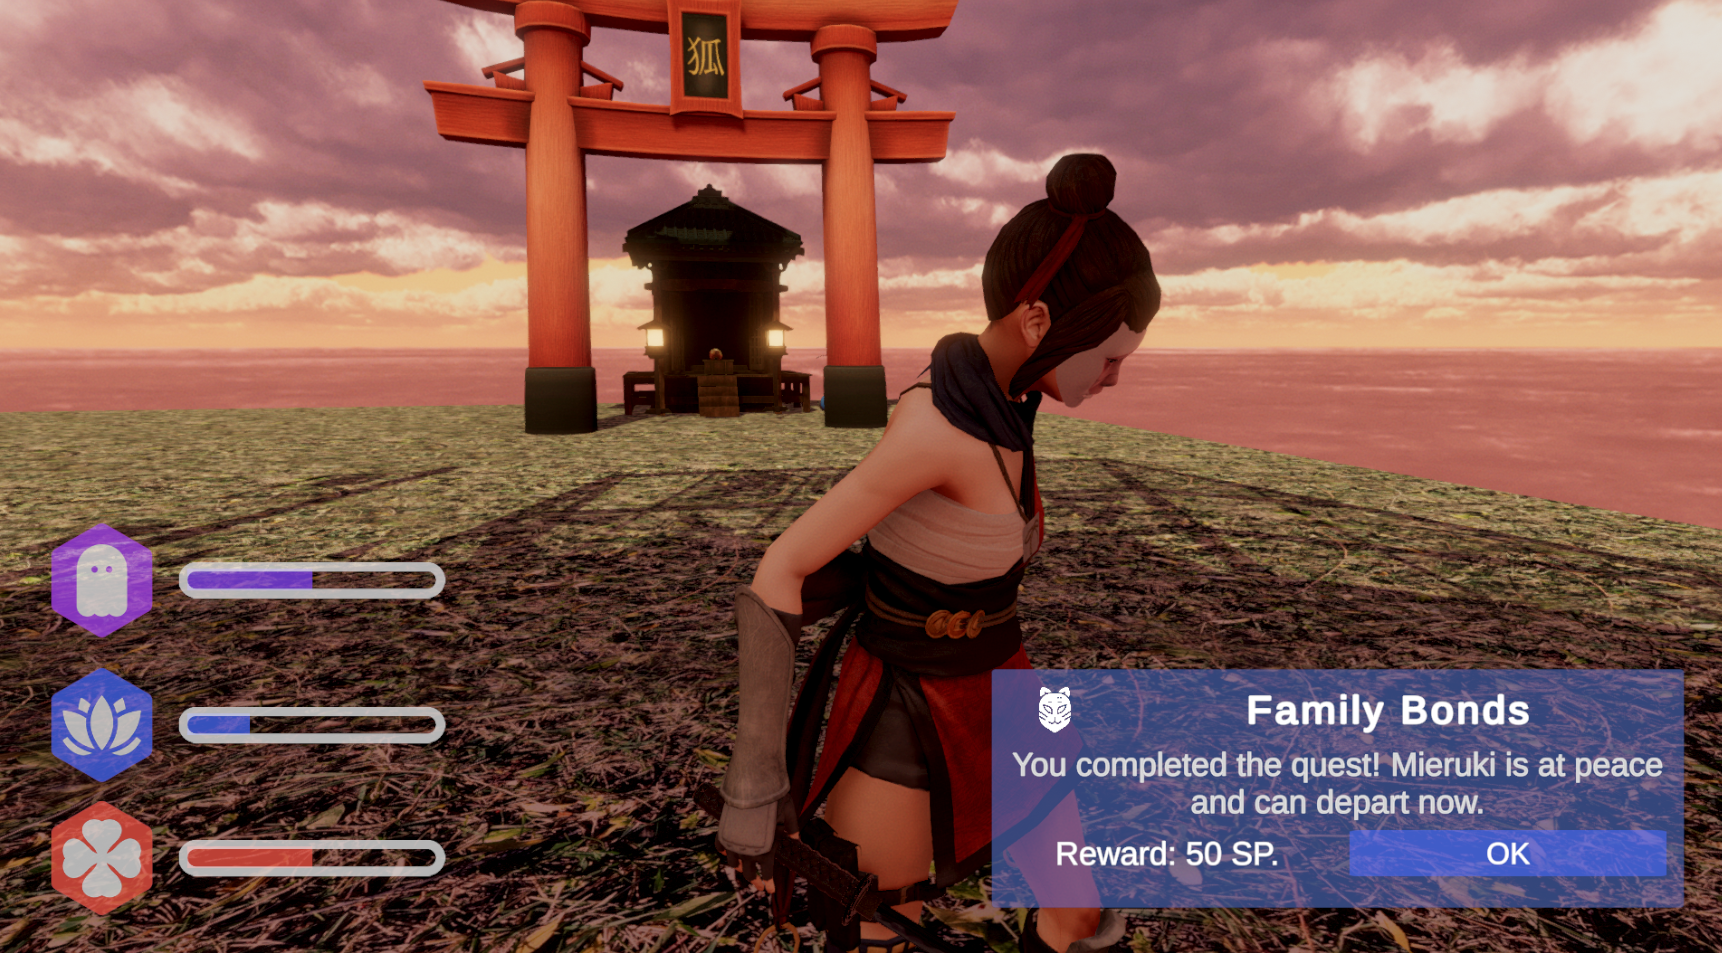
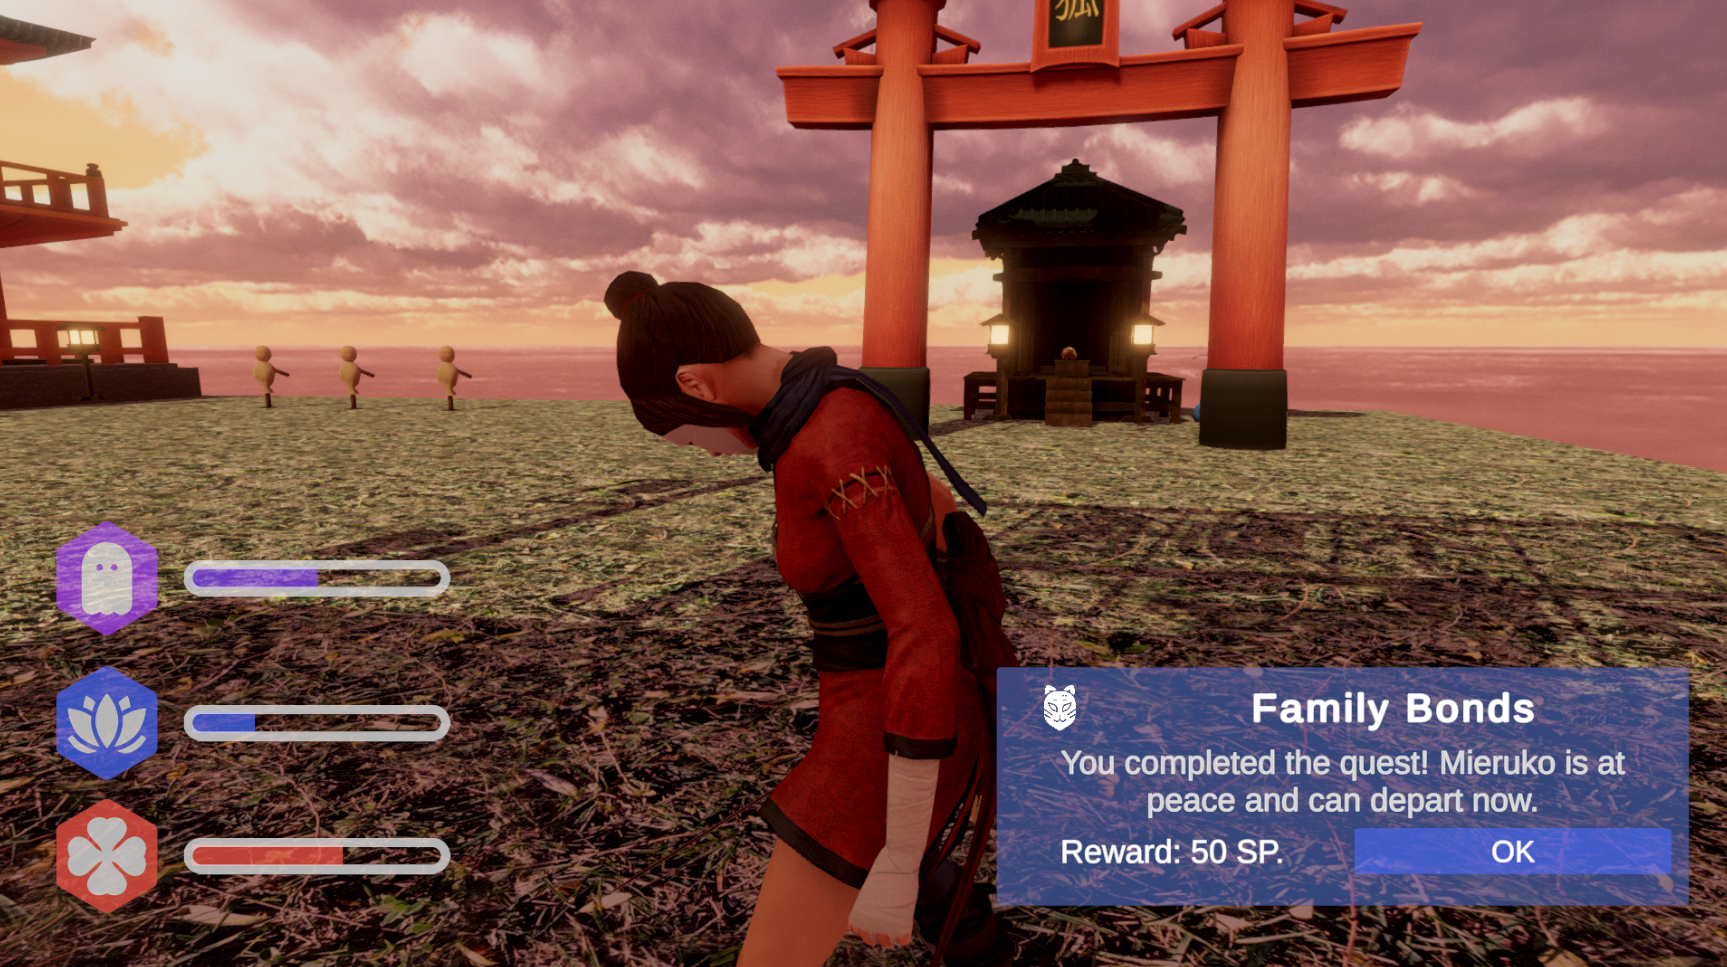
changed screenshot4

diff --git a/Assets/Scripts/Player.cs b/Assets/Scripts/Player.cs
@@ -211,6 +211,6 @@ public class Player : MonoBehaviour
     {
         currentQuest.Goal.isHanakoAtPeace = true;
         GetComponent<Spirit>().AddSpirit(currentQuest.experienceReward);
-        currentQuest.Complete("You completed the quest! Mieruki is at peace and can depart now.");
+        currentQuest.Complete("You completed the quest! Mieruko is at peace and can depart now.");
     }
 }
